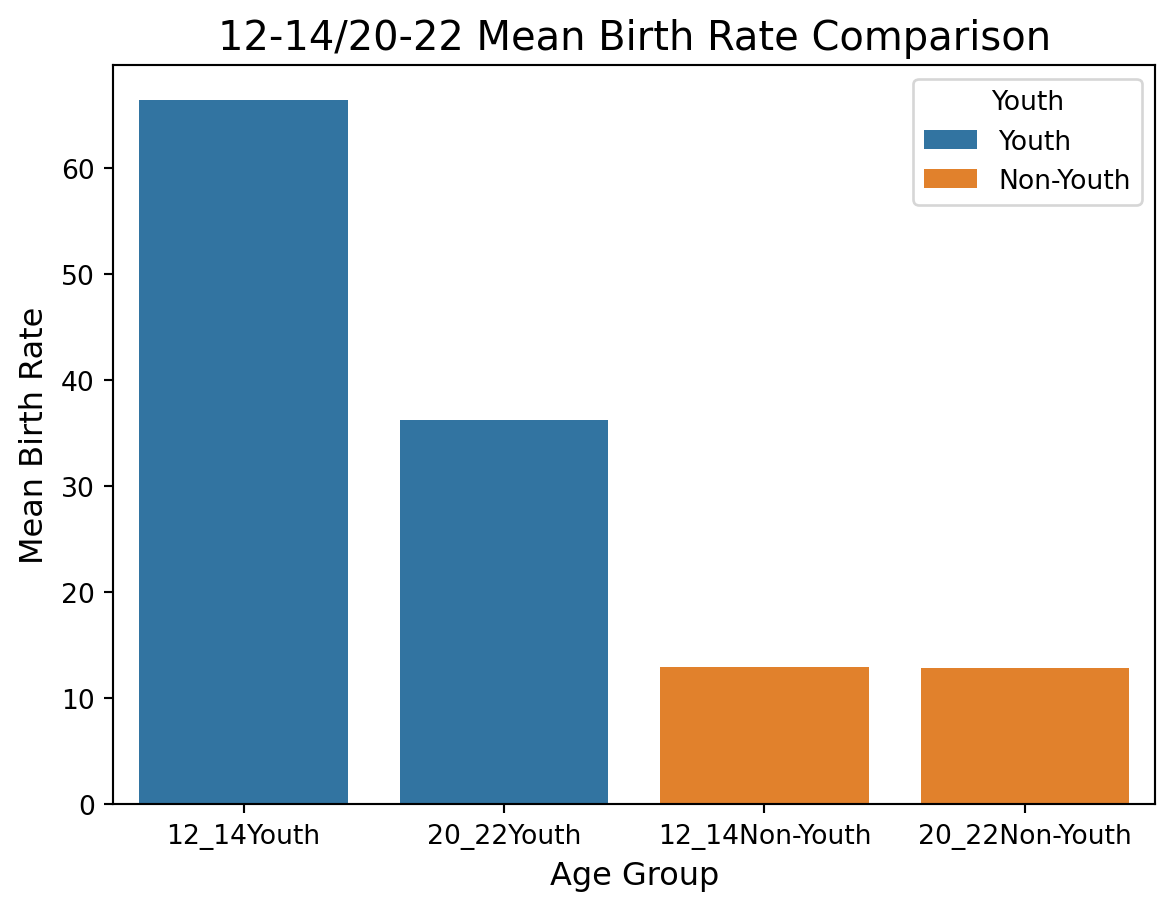
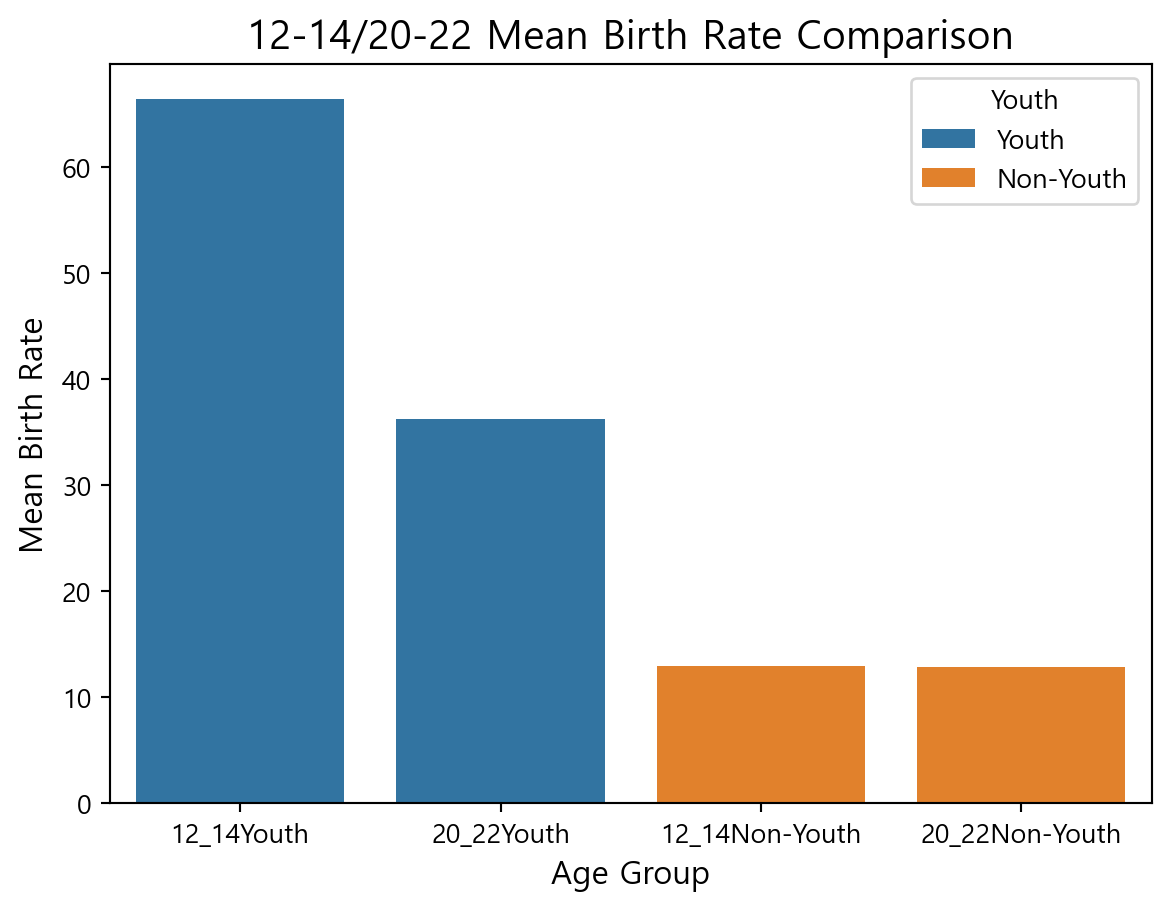
최최종

diff --git a/docs/finala-group.html b/docs/finala-group.html
@@ -256,7 +256,7 @@ pre > code.sourceCode > span > a:first-child::before { text-decoration: underlin
 <section id="데이터-전처리-코드" class="level1">
 <h1>데이터 전처리 코드</h1>
 <p><strong>원본 데이터 불러오기 및 리스트 초기화</strong></p>
-<div id="4ae64f93" class="cell" data-execution_count="1">
+<div id="7446fef8" class="cell" data-execution_count="1">
 <div class="sourceCode cell-code" id="cb1"><pre class="sourceCode python code-with-copy"><code class="sourceCode python"><span id="cb1-1"><a href="#cb1-1" aria-hidden="true" tabindex="-1"></a><span class="im">import</span> pandas <span class="im">as</span> pd</span>
 <span id="cb1-2"><a href="#cb1-2" aria-hidden="true" tabindex="-1"></a><span class="im">import</span> numpy <span class="im">as</span> np</span>
 <span id="cb1-3"><a href="#cb1-3" aria-hidden="true" tabindex="-1"></a></span>
@@ -266,7 +266,7 @@ pre > code.sourceCode > span > a:first-child::before { text-decoration: underlin
 <span id="cb1-7"><a href="#cb1-7" aria-hidden="true" tabindex="-1"></a>lst_mean12_19 <span class="op">=</span> []</span>
 <span id="cb1-8"><a href="#cb1-8" aria-hidden="true" tabindex="-1"></a></span>
 <span id="cb1-9"><a href="#cb1-9" aria-hidden="true" tabindex="-1"></a>df</span></code><button title="Copy to Clipboard" class="code-copy-button"><i class="bi"></i></button></pre></div>
-<div class="cell-output cell-output-display" data-execution_count="1">
+<div class="cell-output cell-output-display" data-execution_count="22">
 <div>
 
 
@@ -769,7 +769,7 @@ pre > code.sourceCode > span > a:first-child::before { text-decoration: underlin
 <p><strong>이름 변경을 위한 문자열 추가</strong></p>
 <p>EX) “2020” → “20_1519”: 20년도 15 ~ 19세</p>
 <p>“2020.1” → “20_2024”: 20년도 20 ~ 24세</p>
-<div id="f2bcde11" class="cell" data-execution_count="2">
+<div id="a398fc2c" class="cell" data-execution_count="2">
 <div class="sourceCode cell-code" id="cb2"><pre class="sourceCode python code-with-copy"><code class="sourceCode python"><span id="cb2-1"><a href="#cb2-1" aria-hidden="true" tabindex="-1"></a><span class="cf">for</span> i <span class="kw">in</span> <span class="bu">range</span>(<span class="dv">12</span>, <span class="dv">23</span>):</span>
 <span id="cb2-2"><a href="#cb2-2" aria-hidden="true" tabindex="-1"></a>  before_name.append(<span class="st">"20"</span> <span class="op">+</span> <span class="bu">str</span>(i))</span>
 <span id="cb2-3"><a href="#cb2-3" aria-hidden="true" tabindex="-1"></a>  before_name.append(<span class="st">"20"</span> <span class="op">+</span> <span class="bu">str</span>(i) <span class="op">+</span> <span class="st">".1"</span>)</span>
@@ -795,12 +795,12 @@ after_name: ['12_1519', '12_2024', '12_2529', '12_3034', '12_3539', '12_4044', '
 <p><strong>복사본 br을 만들고, 열을 통합하기 위해 0번 열을 제거함</strong></p>
 <p>EX) 2020 + 15 ~ 19세 → 20_1519</p>
 <p>0번 열을 제거하여 1번부터 시작하므로, 추후 인덱싱 작업을 위해 <code>.reset_index</code>을 사용하여 재정렬</p>
-<div id="62e88e17" class="cell" data-execution_count="3">
+<div id="6fe1f2a9" class="cell" data-execution_count="3">
 <div class="sourceCode cell-code" id="cb4"><pre class="sourceCode python code-with-copy"><code class="sourceCode python"><span id="cb4-1"><a href="#cb4-1" aria-hidden="true" tabindex="-1"></a>br <span class="op">=</span> df.copy()</span>
 <span id="cb4-2"><a href="#cb4-2" aria-hidden="true" tabindex="-1"></a>br.drop(<span class="dv">0</span>, inplace <span class="op">=</span> <span class="va">True</span>)</span>
 <span id="cb4-3"><a href="#cb4-3" aria-hidden="true" tabindex="-1"></a>br.reset_index(drop <span class="op">=</span> <span class="va">True</span>, inplace <span class="op">=</span> <span class="va">True</span>)</span>
 <span id="cb4-4"><a href="#cb4-4" aria-hidden="true" tabindex="-1"></a>br</span></code><button title="Copy to Clipboard" class="code-copy-button"><i class="bi"></i></button></pre></div>
-<div class="cell-output cell-output-display" data-execution_count="3">
+<div class="cell-output cell-output-display" data-execution_count="24">
 <div>
 
 
@@ -1274,7 +1274,7 @@ after_name: ['12_1519', '12_2024', '12_2529', '12_3034', '12_3539', '12_4044', '
 <p><strong>의미를 통합하기 위해, 전체 열의 이름을 변경</strong></p>
 <p><code>before_name</code>의 길이 만큼 구문을 반복 (<code>len(before_name) = 77</code>이므로, <code>i</code>에는 0에서 77까지의 수가 들어감)</p>
 <p>EX) br의 열 이름이 <code>before_name[0]</code>에서 <code>after_name[0]</code>으로 변경 “2020” → “20_1519”</p>
-<div id="6c9b8b7e" class="cell" data-execution_count="4">
+<div id="40edfbee" class="cell" data-execution_count="4">
 <div class="sourceCode cell-code" id="cb5"><pre class="sourceCode python code-with-copy"><code class="sourceCode python"><span id="cb5-1"><a href="#cb5-1" aria-hidden="true" tabindex="-1"></a><span class="cf">for</span> i <span class="kw">in</span> <span class="bu">range</span>(<span class="dv">0</span>, <span class="bu">len</span>(before_name)):</span>
 <span id="cb5-2"><a href="#cb5-2" aria-hidden="true" tabindex="-1"></a>  br.rename(columns <span class="op">=</span> {before_name[i] : after_name[i]}, inplace <span class="op">=</span> <span class="va">True</span>)</span>
 <span id="cb5-3"><a href="#cb5-3" aria-hidden="true" tabindex="-1"></a></span>
@@ -1305,16 +1305,16 @@ after_name: ['12_1519', '12_2024', '12_2529', '12_3034', '12_3539', '12_4044', '
 </div>
 </div>
 <p><strong>데이터의 타입이 문자열이므로, 계산을 위해 Type을 float64로 변경함</strong></p>
-<div id="b8b0383a" class="cell" data-execution_count="5">
+<div id="45e9ec2b" class="cell" data-execution_count="5">
 <div class="sourceCode cell-code" id="cb7"><pre class="sourceCode python code-with-copy"><code class="sourceCode python"><span id="cb7-1"><a href="#cb7-1" aria-hidden="true" tabindex="-1"></a>br[after_name] <span class="op">=</span> br[after_name].<span class="bu">apply</span>(pd.to_numeric)</span>
 <span id="cb7-2"><a href="#cb7-2" aria-hidden="true" tabindex="-1"></a></span>
 <span id="cb7-3"><a href="#cb7-3" aria-hidden="true" tabindex="-1"></a><span class="bu">type</span>(br[<span class="st">"12_1519"</span>][<span class="dv">6</span>])</span></code><button title="Copy to Clipboard" class="code-copy-button"><i class="bi"></i></button></pre></div>
-<div class="cell-output cell-output-display" data-execution_count="5">
+<div class="cell-output cell-output-display" data-execution_count="26">
 <pre><code>numpy.float64</code></pre>
 </div>
 </div>
 <p><strong>20 ~ 22년까지 최근 3년의 청년층(20 ~ 34세) 모의 연령별 출산율의 평균을 계산하여 열로 추가</strong></p>
-<div id="d999a2fe" class="cell" data-execution_count="6">
+<div id="e4791697" class="cell" data-execution_count="6">
 <div class="sourceCode cell-code" id="cb9"><pre class="sourceCode python code-with-copy"><code class="sourceCode python"><span id="cb9-1"><a href="#cb9-1" aria-hidden="true" tabindex="-1"></a>br <span class="op">=</span> br.assign(</span>
 <span id="cb9-2"><a href="#cb9-2" aria-hidden="true" tabindex="-1"></a>  mean20 <span class="op">=</span> (br[<span class="st">"20_2024"</span>] <span class="op">+</span> br[<span class="st">"20_2529"</span>] <span class="op">+</span> br[<span class="st">"20_3034"</span>]) <span class="op">/</span> <span class="dv">3</span>,</span>
 <span id="cb9-3"><a href="#cb9-3" aria-hidden="true" tabindex="-1"></a>  mean21 <span class="op">=</span> (br[<span class="st">"21_2024"</span>] <span class="op">+</span> br[<span class="st">"21_2529"</span>] <span class="op">+</span> br[<span class="st">"21_3034"</span>]) <span class="op">/</span> <span class="dv">3</span>,</span>
@@ -1322,7 +1322,7 @@ after_name: ['12_1519', '12_2024', '12_2529', '12_3034', '12_3539', '12_4044', '
 <span id="cb9-5"><a href="#cb9-5" aria-hidden="true" tabindex="-1"></a>  </span>
 <span id="cb9-6"><a href="#cb9-6" aria-hidden="true" tabindex="-1"></a>br.head(<span class="dv">5</span>)</span>
 <span id="cb9-7"><a href="#cb9-7" aria-hidden="true" tabindex="-1"></a>br</span></code><button title="Copy to Clipboard" class="code-copy-button"><i class="bi"></i></button></pre></div>
-<div class="cell-output cell-output-display" data-execution_count="6">
+<div class="cell-output cell-output-display" data-execution_count="27">
 <div>
 
 
@@ -1801,12 +1801,12 @@ after_name: ['12_1519', '12_2024', '12_2529', '12_3034', '12_3539', '12_4044', '
 <p>결과로 나온 평균을 <code>lst_mean12_19</code> 리스트에 요소로 추가</p>
 <p>따라서, <code>lst_mean12_19</code>에는 <strong>12 ~ 19년도 청년층의 시도별 모의 출산율 평균 Series List</strong>가 들어 있음</p>
 <p>(<code>br["mean12"]</code>, <code>br["mean13"]</code>, <code>br["mean14"]</code> …에 해당하는 Series를 열로 추가하지 않고 리스트에 보관했다고 생각)</p>
-<div id="f342fee0" class="cell" data-execution_count="7">
+<div id="e1223d0a" class="cell" data-execution_count="7">
 <div class="sourceCode cell-code" id="cb10"><pre class="sourceCode python code-with-copy"><code class="sourceCode python"><span id="cb10-1"><a href="#cb10-1" aria-hidden="true" tabindex="-1"></a><span class="cf">for</span> i <span class="kw">in</span> <span class="bu">range</span>(<span class="dv">0</span>, <span class="dv">56</span>, <span class="dv">7</span>):</span>
 <span id="cb10-2"><a href="#cb10-2" aria-hidden="true" tabindex="-1"></a>  lst_mean12_19.append((br[after_name[i <span class="op">+</span> <span class="dv">1</span>]] <span class="op">+</span> br[after_name[i <span class="op">+</span> <span class="dv">2</span>]] <span class="op">+</span> br[after_name[i <span class="op">+</span> <span class="dv">3</span>]]) <span class="op">/</span> <span class="dv">3</span>)</span>
 <span id="cb10-3"><a href="#cb10-3" aria-hidden="true" tabindex="-1"></a></span>
 <span id="cb10-4"><a href="#cb10-4" aria-hidden="true" tabindex="-1"></a>lst_mean12_19</span></code><button title="Copy to Clipboard" class="code-copy-button"><i class="bi"></i></button></pre></div>
-<div class="cell-output cell-output-display" data-execution_count="7">
+<div class="cell-output cell-output-display" data-execution_count="28">
 <pre><code>[0     71.766667
  1     55.033333
  2     61.333333
@@ -1966,7 +1966,7 @@ after_name: ['12_1519', '12_2024', '12_2529', '12_3034', '12_3539', '12_4044', '
 <p><code>range(12, 20)</code>으로 <code>i</code>에 12, 13, 14, … 19가 들어감</p>
 <p>“compare12” ~ “compare19” 열을 추가하고, 시도별 평균과 전체 평균을 비교함</p>
 <p>EX) <code>i = 12</code>일 때 <code>lst_mean12_19[0].mean() &lt;= lst_mean12_19[0]</code>: 12년도 전체 평균(숫자) &lt;= 12년도 시도별 평균(Series)을 비교함</p>
-<div id="0dd92eb4" class="cell" data-execution_count="8">
+<div id="59e1e58a" class="cell" data-execution_count="8">
 <div class="sourceCode cell-code" id="cb12"><pre class="sourceCode python code-with-copy"><code class="sourceCode python"><span id="cb12-1"><a href="#cb12-1" aria-hidden="true" tabindex="-1"></a><span class="cf">for</span> i <span class="kw">in</span> <span class="bu">range</span>(<span class="dv">12</span>, <span class="dv">20</span>):</span>
 <span id="cb12-2"><a href="#cb12-2" aria-hidden="true" tabindex="-1"></a>  br[<span class="st">"compare"</span> <span class="op">+</span> <span class="bu">str</span>(i)] <span class="op">=</span> np.where(lst_mean12_19[i <span class="op">-</span> <span class="dv">12</span>][<span class="dv">0</span>] <span class="op">&lt;</span> lst_mean12_19[i <span class="op">-</span> <span class="dv">12</span>], <span class="st">"large"</span>,</span>
 <span id="cb12-3"><a href="#cb12-3" aria-hidden="true" tabindex="-1"></a>                           np.where(lst_mean12_19[i <span class="op">-</span> <span class="dv">12</span>][<span class="dv">0</span>] <span class="op">==</span> lst_mean12_19[i <span class="op">-</span> <span class="dv">12</span>], <span class="st">"whole"</span>, <span class="st">"small"</span>))</span>
@@ -1998,7 +1998,7 @@ after_name: ['12_1519', '12_2024', '12_2529', '12_3034', '12_3539', '12_4044', '
 </div>
 </div>
 <p><strong>최근 3년의 평균은 List가 아닌 DataFrame의 열로 가지고 있으므로, 추출하여 비교 계산</strong></p>
-<div id="6b115dd4" class="cell" data-execution_count="9">
+<div id="32e60d2d" class="cell" data-execution_count="9">
 <div class="sourceCode cell-code" id="cb14"><pre class="sourceCode python code-with-copy"><code class="sourceCode python"><span id="cb14-1"><a href="#cb14-1" aria-hidden="true" tabindex="-1"></a>br[<span class="st">"compare20"</span>] <span class="op">=</span> np.where(br[<span class="st">"mean20"</span>][<span class="dv">0</span>] <span class="op">&lt;</span> br[<span class="st">"mean20"</span>], <span class="st">"large"</span>,</span>
 <span id="cb14-2"><a href="#cb14-2" aria-hidden="true" tabindex="-1"></a>                  np.where(br[<span class="st">"mean20"</span>][<span class="dv">0</span>] <span class="op">==</span> br[<span class="st">"mean20"</span>], <span class="st">"whole"</span>, <span class="st">"small"</span>))</span>
 <span id="cb14-3"><a href="#cb14-3" aria-hidden="true" tabindex="-1"></a>br[<span class="st">"compare21"</span>] <span class="op">=</span> np.where(br[<span class="st">"mean21"</span>][<span class="dv">0</span>] <span class="op">&lt;</span> br[<span class="st">"mean21"</span>], <span class="st">"large"</span>,</span>
@@ -2007,7 +2007,7 @@ after_name: ['12_1519', '12_2024', '12_2529', '12_3034', '12_3539', '12_4044', '
 <span id="cb14-6"><a href="#cb14-6" aria-hidden="true" tabindex="-1"></a>                  np.where(br[<span class="st">"mean22"</span>][<span class="dv">0</span>] <span class="op">==</span> br[<span class="st">"mean22"</span>], <span class="st">"whole"</span>, <span class="st">"small"</span>))</span>
 <span id="cb14-7"><a href="#cb14-7" aria-hidden="true" tabindex="-1"></a></span>
 <span id="cb14-8"><a href="#cb14-8" aria-hidden="true" tabindex="-1"></a>br.head(<span class="dv">5</span>)</span></code><button title="Copy to Clipboard" class="code-copy-button"><i class="bi"></i></button></pre></div>
-<div class="cell-output cell-output-display" data-execution_count="9">
+<div class="cell-output cell-output-display" data-execution_count="30">
 <div>
 
 
@@ -2166,9 +2166,9 @@ after_name: ['12_1519', '12_2024', '12_2529', '12_3034', '12_3539', '12_4044', '
 </div>
 </div>
 </div>
-<div id="988aa3fa" class="cell" data-execution_count="10">
+<div id="16a61778" class="cell" data-execution_count="10">
 <div class="sourceCode cell-code" id="cb15"><pre class="sourceCode python code-with-copy"><code class="sourceCode python"><span id="cb15-1"><a href="#cb15-1" aria-hidden="true" tabindex="-1"></a>br</span></code><button title="Copy to Clipboard" class="code-copy-button"><i class="bi"></i></button></pre></div>
-<div class="cell-output cell-output-display" data-execution_count="10">
+<div class="cell-output cell-output-display" data-execution_count="31">
 <div>
 
 
@@ -2650,7 +2650,7 @@ after_name: ['12_1519', '12_2024', '12_2529', '12_3034', '12_3539', '12_4044', '
 <li>기간: 2020~2022</li>
 <li>그룹: 청년 / 비청년</li>
 </ul>
-<div id="c19b293b" class="cell" data-execution_count="11">
+<div id="a511804d" class="cell" data-execution_count="11">
 <div class="sourceCode cell-code" id="cb16"><pre class="sourceCode python code-with-copy"><code class="sourceCode python"><span id="cb16-1"><a href="#cb16-1" aria-hidden="true" tabindex="-1"></a>br2 <span class="op">=</span> br.iloc[[<span class="dv">0</span>]]</span>
 <span id="cb16-2"><a href="#cb16-2" aria-hidden="true" tabindex="-1"></a><span class="bu">type</span>(br2[<span class="st">"21_2024"</span>][<span class="dv">0</span>])</span>
 <span id="cb16-3"><a href="#cb16-3" aria-hidden="true" tabindex="-1"></a>br2.info()</span>
@@ -2759,7 +2759,7 @@ Data columns (total 92 columns):
 dtypes: float64(80), object(12)
 memory usage: 852.0+ bytes</code></pre>
 </div>
-<div class="cell-output cell-output-display" data-execution_count="11">
+<div class="cell-output cell-output-display" data-execution_count="32">
 <div>
 
 
@@ -2823,10 +2823,10 @@ memory usage: 852.0+ bytes</code></pre>
 </div>
 </div>
 <p><strong>보기 쉽게 만들기 위해 행렬을 뒤집는 transpose 함수 사용</strong></p>
-<div id="8588afbb" class="cell" data-execution_count="12">
+<div id="3683d24a" class="cell" data-execution_count="12">
 <div class="sourceCode cell-code" id="cb18"><pre class="sourceCode python code-with-copy"><code class="sourceCode python"><span id="cb18-1"><a href="#cb18-1" aria-hidden="true" tabindex="-1"></a>br2 <span class="op">=</span> br2.transpose()</span>
 <span id="cb18-2"><a href="#cb18-2" aria-hidden="true" tabindex="-1"></a>br2</span></code><button title="Copy to Clipboard" class="code-copy-button"><i class="bi"></i></button></pre></div>
-<div class="cell-output cell-output-display" data-execution_count="12">
+<div class="cell-output cell-output-display" data-execution_count="33">
 <div>
 
 
@@ -2933,7 +2933,7 @@ memory usage: 852.0+ bytes</code></pre>
 <li>0 -&gt; birth_rate(모의연령별 출산율)</li>
 <li>비어있는열 -&gt; year</li>
 </ul>
-<div id="a8ef7188" class="cell" data-execution_count="13">
+<div id="8d05b467" class="cell" data-execution_count="13">
 <div class="sourceCode cell-code" id="cb19"><pre class="sourceCode python code-with-copy"><code class="sourceCode python"><span id="cb19-1"><a href="#cb19-1" aria-hidden="true" tabindex="-1"></a>br2 <span class="op">=</span> br2.rename(columns <span class="op">=</span> {<span class="dv">0</span> : <span class="st">'birth_rate'</span>})</span>
 <span id="cb19-2"><a href="#cb19-2" aria-hidden="true" tabindex="-1"></a>br2 <span class="op">=</span> br2.rename_axis(columns <span class="op">=</span> {<span class="st">''</span> : <span class="st">'year'</span>}, index <span class="op">=</span> <span class="va">None</span>)</span>
 <span id="cb19-3"><a href="#cb19-3" aria-hidden="true" tabindex="-1"></a>br2</span>
@@ -2943,11 +2943,11 @@ memory usage: 852.0+ bytes</code></pre>
 <ul>
 <li>청년층: 1, 비청년층: 2 할당</li>
 </ul>
-<div id="17bad2b9" class="cell" data-execution_count="14">
+<div id="2d8af7dc" class="cell" data-execution_count="14">
 <div class="sourceCode cell-code" id="cb20"><pre class="sourceCode python code-with-copy"><code class="sourceCode python"><span id="cb20-1"><a href="#cb20-1" aria-hidden="true" tabindex="-1"></a>br2[<span class="st">'number'</span>] <span class="op">=</span> np.where(br2[<span class="st">'year'</span>]<span class="op">\</span></span>
 <span id="cb20-2"><a href="#cb20-2" aria-hidden="true" tabindex="-1"></a>                  .isin([<span class="st">'20_2024'</span>, <span class="st">'20_2529'</span>, <span class="st">'20_3034'</span>, <span class="st">'21_2024'</span>, <span class="st">'21_2529'</span>, <span class="st">'21_3034'</span>, <span class="st">'22_2024'</span>, <span class="st">'22_2529'</span>, <span class="st">'22_3034'</span>]), <span class="dv">1</span>, <span class="dv">2</span>)</span>
 <span id="cb20-3"><a href="#cb20-3" aria-hidden="true" tabindex="-1"></a>br2</span></code><button title="Copy to Clipboard" class="code-copy-button"><i class="bi"></i></button></pre></div>
-<div class="cell-output cell-output-display" data-execution_count="14">
+<div class="cell-output cell-output-display" data-execution_count="35">
 <div>
 
 
@@ -3097,7 +3097,7 @@ memory usage: 852.0+ bytes</code></pre>
 <h3 class="anchored" data-anchor-id="청년-비청년-출산율비교">청년, 비청년 출산율비교</h3>
 <p><strong>20~22년 청년 비청년 모의 출산율</strong></p>
 <p>청년층의 출산율을 알아보기 위해서는 br2 데이터에서 number == 1를 추출하여 평균을 구함 비청년도 같은 방식으로 진행</p>
-<div id="971936f5" class="cell" data-execution_count="15">
+<div id="bc09e326" class="cell" data-execution_count="15">
 <div class="sourceCode cell-code" id="cb21"><pre class="sourceCode python code-with-copy"><code class="sourceCode python"><span id="cb21-1"><a href="#cb21-1" aria-hidden="true" tabindex="-1"></a>br2_youth_rate <span class="op">=</span> br2.query(<span class="st">'number == 1'</span>)[<span class="st">'birth_rate'</span>].mean()</span>
 <span id="cb21-2"><a href="#cb21-2" aria-hidden="true" tabindex="-1"></a>br2_non_youth_rate <span class="op">=</span> br2.query(<span class="st">'number == 2'</span>)[<span class="st">'birth_rate'</span>].mean()</span>
 <span id="cb21-3"><a href="#cb21-3" aria-hidden="true" tabindex="-1"></a></span>
@@ -3109,7 +3109,7 @@ memory usage: 852.0+ bytes</code></pre>
 </div>
 </div>
 <p><strong>12~14년 청년 비청년 모의 출산율</strong></p>
-<div id="a334dfe1" class="cell" data-execution_count="16">
+<div id="6813d98c" class="cell" data-execution_count="16">
 <div class="sourceCode cell-code" id="cb23"><pre class="sourceCode python code-with-copy"><code class="sourceCode python"><span id="cb23-1"><a href="#cb23-1" aria-hidden="true" tabindex="-1"></a>br3<span class="op">=</span> br.iloc[:, <span class="dv">1</span>:<span class="dv">21</span>] <span class="co">## 12-14년도 데이터 추출</span></span>
 <span id="cb23-2"><a href="#cb23-2" aria-hidden="true" tabindex="-1"></a>br3 <span class="op">=</span> br3.iloc[[<span class="dv">0</span>]]</span>
 <span id="cb23-3"><a href="#cb23-3" aria-hidden="true" tabindex="-1"></a></span>
@@ -3134,7 +3134,7 @@ memory usage: 852.0+ bytes</code></pre>
 </div>
 </div>
 <p><strong>그래프 표현</strong></p>
-<div id="0c0a0faf" class="cell" data-execution_count="17">
+<div id="65497fb1" class="cell" data-execution_count="17">
 <div class="sourceCode cell-code" id="cb25"><pre class="sourceCode python code-with-copy"><code class="sourceCode python"><span id="cb25-1"><a href="#cb25-1" aria-hidden="true" tabindex="-1"></a><span class="im">import</span> matplotlib.pyplot <span class="im">as</span> plt</span>
 <span id="cb25-2"><a href="#cb25-2" aria-hidden="true" tabindex="-1"></a><span class="im">import</span> seaborn <span class="im">as</span> sns</span>
 <span id="cb25-3"><a href="#cb25-3" aria-hidden="true" tabindex="-1"></a></span>
@@ -3153,7 +3153,7 @@ memory usage: 852.0+ bytes</code></pre>
 <div class="cell-output cell-output-display">
 <div>
 <figure class="figure">
-<p><img src="finala-group_files/figure-html/cell-18-output-1.png" width="587" height="455" class="figure-img"></p>
+<p><img src="finala-group_files/figure-html/cell-18-output-1.png" width="585" height="455" class="figure-img"></p>
 </figure>
 </div>
 </div>
@@ -3174,7 +3174,7 @@ memory usage: 852.0+ bytes</code></pre>
 <section id="q-전국-평균-대비-시도별-청년층의-출산율-비교" class="level2">
 <h2 class="anchored" data-anchor-id="q-전국-평균-대비-시도별-청년층의-출산율-비교">Q 전국 평균 대비 시도별 청년층의 출산율 비교</h2>
 <p><strong>청년층의 출산율이 높은 지역 상위5 &amp; 하위5</strong></p>
-<div id="75178eb5" class="cell" data-execution_count="18">
+<div id="0f20bde2" class="cell" data-execution_count="18">
 <div class="sourceCode cell-code" id="cb27"><pre class="sourceCode python code-with-copy"><code class="sourceCode python"><span id="cb27-1"><a href="#cb27-1" aria-hidden="true" tabindex="-1"></a><span class="bu">print</span>(br[[<span class="st">'시군구별'</span>, <span class="st">"mean20"</span>]].sort_values(<span class="st">"mean20"</span>, ascending <span class="op">=</span> <span class="va">False</span>).head(), <span class="st">"</span><span class="ch">\n</span><span class="st">"</span>, <span class="st">"-------------------------"</span>)</span>
 <span id="cb27-2"><a href="#cb27-2" aria-hidden="true" tabindex="-1"></a><span class="bu">print</span>(br[[<span class="st">'시군구별'</span>, <span class="st">"mean21"</span>]].sort_values(<span class="st">"mean21"</span>, ascending <span class="op">=</span> <span class="va">False</span>).head(), <span class="st">"</span><span class="ch">\n</span><span class="st">"</span>, <span class="st">"-------------------------"</span>)</span>
 <span id="cb27-3"><a href="#cb27-3" aria-hidden="true" tabindex="-1"></a><span class="bu">print</span>(br[[<span class="st">'시군구별'</span>, <span class="st">"mean22"</span>]].sort_values(<span class="st">"mean22"</span>, ascending <span class="op">=</span> <span class="va">False</span>).head(), <span class="st">"</span><span class="ch">\n</span><span class="st">"</span>, <span class="st">"--------------------------"</span>)</span>
@@ -3227,7 +3227,7 @@ memory usage: 852.0+ bytes</code></pre>
 </div>
 </div>
 <p><strong>각 도시 청년층의 평균모의출산율 그래프</strong></p>
-<div id="96829025" class="cell" data-execution_count="19">
+<div id="8f24405f" class="cell" data-execution_count="19">
 <div class="sourceCode cell-code" id="cb29"><pre class="sourceCode python code-with-copy"><code class="sourceCode python"><span id="cb29-1"><a href="#cb29-1" aria-hidden="true" tabindex="-1"></a><span class="im">import</span> seaborn <span class="im">as</span> sns</span>
 <span id="cb29-2"><a href="#cb29-2" aria-hidden="true" tabindex="-1"></a>colors <span class="op">=</span> [<span class="st">'orchid'</span>, <span class="st">'lightpink'</span>, <span class="st">'palevioletred'</span>, <span class="st">'hotpink'</span>, <span class="st">'plum'</span>, <span class="st">'thistle'</span>]</span>
 <span id="cb29-3"><a href="#cb29-3" aria-hidden="true" tabindex="-1"></a>plt.rcParams.update({<span class="st">'font.family'</span> : <span class="st">'Malgun Gothic'</span>})</span>
@@ -3261,7 +3261,7 @@ The palette list has fewer values (6) than needed (18) and will cycle, which may
 </div>
 </div>
 </div>
-<div id="ab876fc9" class="cell" data-execution_count="20">
+<div id="7ce2a54f" class="cell" data-execution_count="20">
 <div class="sourceCode cell-code" id="cb31"><pre class="sourceCode python code-with-copy"><code class="sourceCode python"><span id="cb31-1"><a href="#cb31-1" aria-hidden="true" tabindex="-1"></a>new <span class="op">=</span> br[[<span class="st">'시군구별'</span>, <span class="st">'mean21'</span>]].sort_values(<span class="st">"mean21"</span>, ascending<span class="op">=</span><span class="va">False</span>)</span>
 <span id="cb31-2"><a href="#cb31-2" aria-hidden="true" tabindex="-1"></a>plt.figure(figsize<span class="op">=</span>(<span class="dv">7</span>, <span class="dv">3</span>))</span>
 <span id="cb31-3"><a href="#cb31-3" aria-hidden="true" tabindex="-1"></a>sns.barplot(data<span class="op">=</span>new, x<span class="op">=</span><span class="st">'시군구별'</span>, y<span class="op">=</span><span class="st">'mean21'</span>, palette<span class="op">=</span>colors)</span>
@@ -3292,7 +3292,7 @@ The palette list has fewer values (6) than needed (18) and will cycle, which may
 </div>
 </div>
 </div>
-<div id="124efb57" class="cell" data-execution_count="21">
+<div id="0085b8e7" class="cell" data-execution_count="21">
 <div class="sourceCode cell-code" id="cb33"><pre class="sourceCode python code-with-copy"><code class="sourceCode python"><span id="cb33-1"><a href="#cb33-1" aria-hidden="true" tabindex="-1"></a>new <span class="op">=</span> br[[<span class="st">'시군구별'</span>, <span class="st">'mean22'</span>]].sort_values(<span class="st">"mean22"</span>, ascending<span class="op">=</span><span class="va">False</span>)</span>
 <span id="cb33-2"><a href="#cb33-2" aria-hidden="true" tabindex="-1"></a>plt.figure(figsize<span class="op">=</span>(<span class="dv">7</span>, <span class="dv">3</span>))</span>
 <span id="cb33-3"><a href="#cb33-3" aria-hidden="true" tabindex="-1"></a>sns.barplot(data<span class="op">=</span>new, x<span class="op">=</span><span class="st">'시군구별'</span>, y<span class="op">=</span><span class="st">'mean22'</span>, palette<span class="op">=</span>colors)</span>
